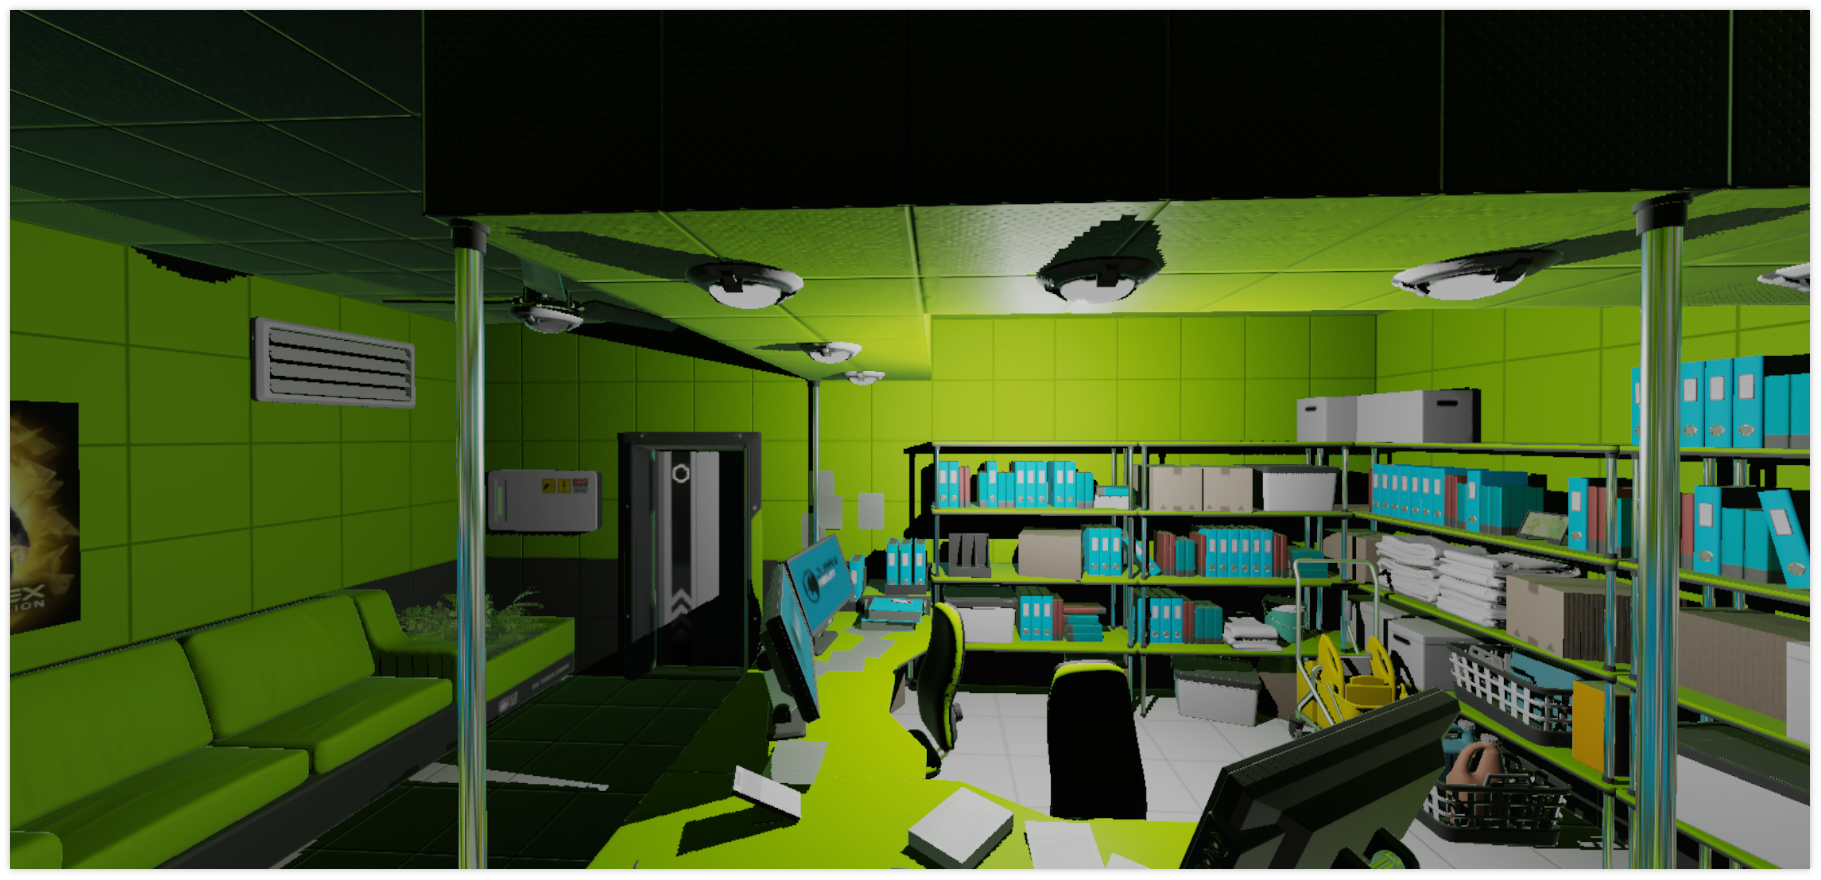
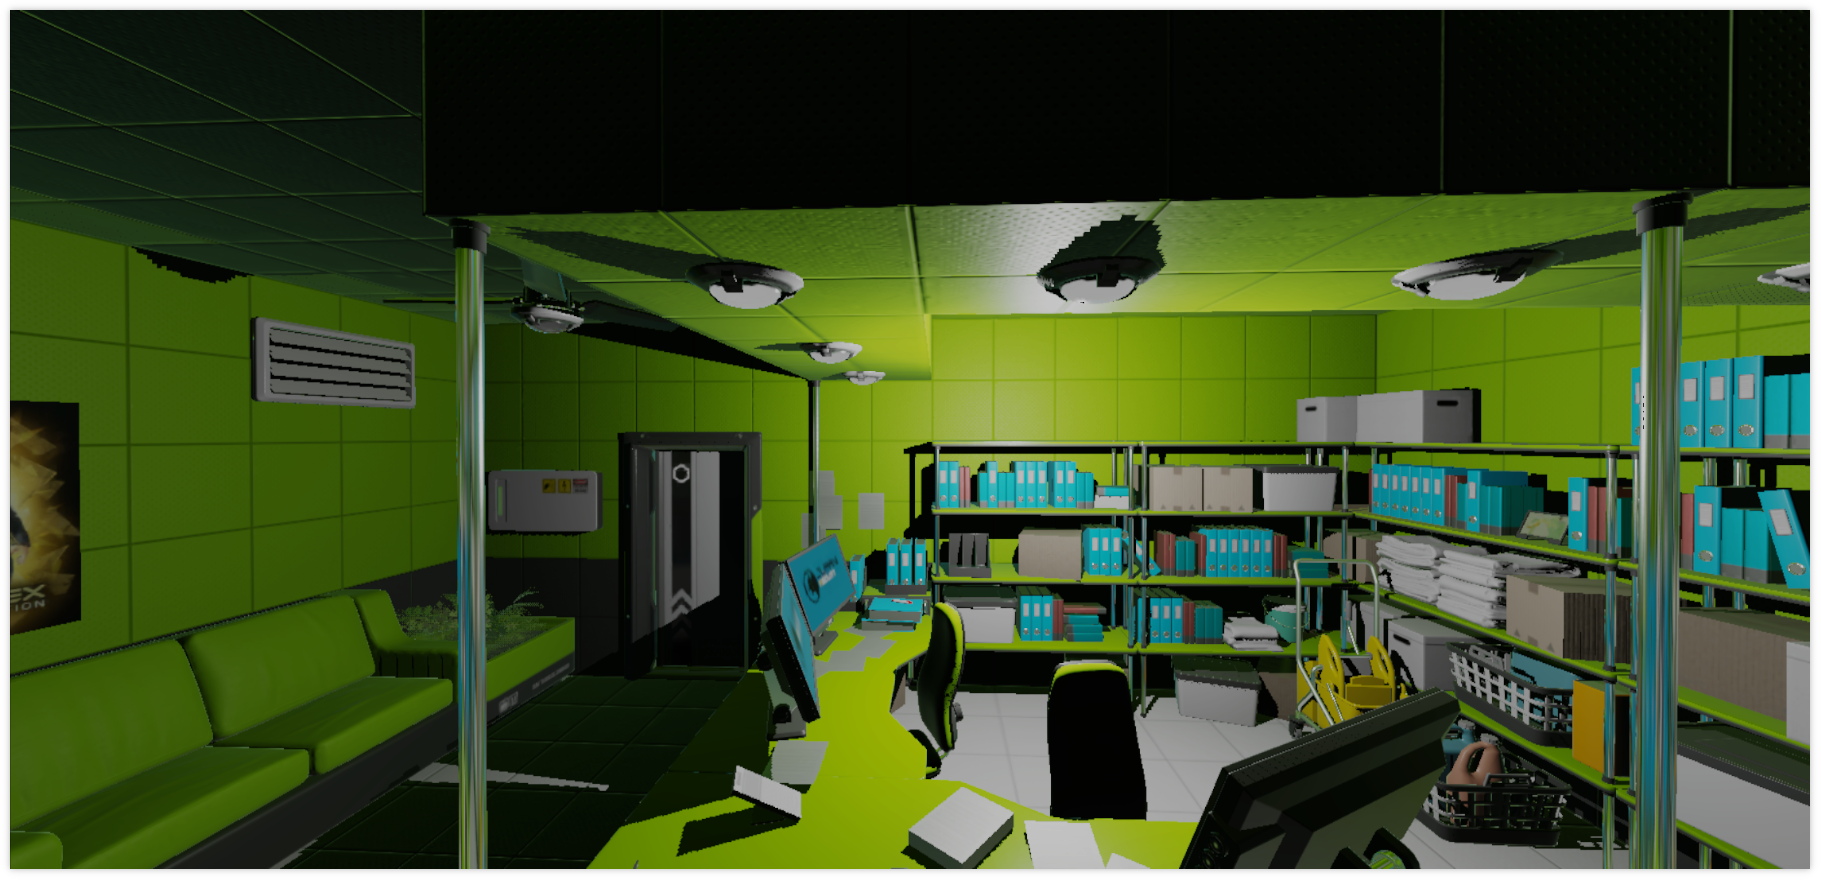
Documentation: - preview image has been updated - build requirements have been updated
Project:
- Android Studio Jellyfish | 2023.3.1 Patch 2 support
- Android Studio Gradle Plugin has been updated to 8.4.2
- Gradle has been updated to 8.8-bin

pbr:
- Cook-Torrance lighting model has been improved

diff --git a/README.md b/README.md
@@ -22,8 +22,8 @@ Useful documentation is located [here](docs/documentation.md).
 ### Requirements
 
 * _Windows Vista_+ or _Monjaro KDE_
-* [_Android Studio Jellyfish | 2023.3.1 Patch 1_](https://developer.android.com/studio)
-* _Android Studio Gradle Plugin 8.4.1_
+* [_Android Studio Jellyfish | 2023.3.1 Patch 2_](https://developer.android.com/studio)
+* _Android Studio Gradle Plugin 8.4.2_
 * _Android NDK 26.3.11579264 (side by side)_
 * _Minimum _Android SDK_ version: Android 11 (API level 30)_
 * _Compile _Android SDK_ version: Android 13 (API level 34)_
@@ -32,7 +32,7 @@ Useful documentation is located [here](docs/documentation.md).
 * _Kotlin 2.0.0_
 * _Kotlin Gradle plugin 2.0.0_
 * _CMake 3.22.1_
-* [_Gradle 8.7-bin_](https://services.gradle.org/distributions/)
+* [_Gradle 8.8-bin_](https://services.gradle.org/distributions/)
 * [_DirectX Shader Compiler 1.8.2405.10035_](https://github.com/microsoft/DirectXShaderCompiler) `128e6ce2be8f09539c97cf28d6066d9a6b32b15c`
 * [_libfreetype 2.13.2_](https://gitlab.freedesktop.org/freetype/freetype) `b6dbbd963097afd9f90cc02f1c6c6d2b98ca4fd4`
 * [_libogg 1.3.5_](https://gitlab.xiph.org/xiph/ogg) `db5c7a49ce7ebda47b15b78471e78fb7f2483e22`

diff --git a/docs/renderdoc-integration.md b/docs/renderdoc-integration.md
@@ -1,6 +1,6 @@
 # _RenderDoc_ integration
 
-The project supports integration with [_RenderDoc v1.32_](https://renderdoc.org/). But there is a catch. This tool implies additional limitations to hardware features:
+The project supports integration with [_RenderDoc v1.33_](https://renderdoc.org/). But there is a catch. This tool implies additional limitations to hardware features:
 
 - `VK_IMAGE_USAGE_TRANSIENT_ATTACHMENT_BIT`
 - `VK_MEMORY_PROPERTY_LAZILY_ALLOCATED_BIT`
@@ -36,3 +36,9 @@ target_compile_definitions ( android-vulkan
 **Note:** The application will crash without _RenderDoc_ after using `ANDROID_VULKAN_ENABLE_RENDER_DOC_INTEGRATION`. It's expected. The reason for this is that application will try to find and call _Vulkan_ debug marker and debug group functions. Most likely they will not be available on device.
 
 That's it.
+
+## Reported issues
+
+Name | Link | Status
+--- | --- | ---
+spirv-cross.exe error when editing shaders | [#3353](https://github.com/baldurk/renderdoc/issues/3353) | ⚠ Submitted
